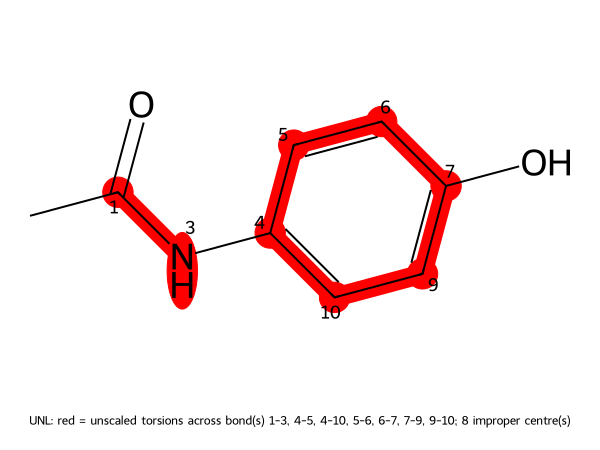
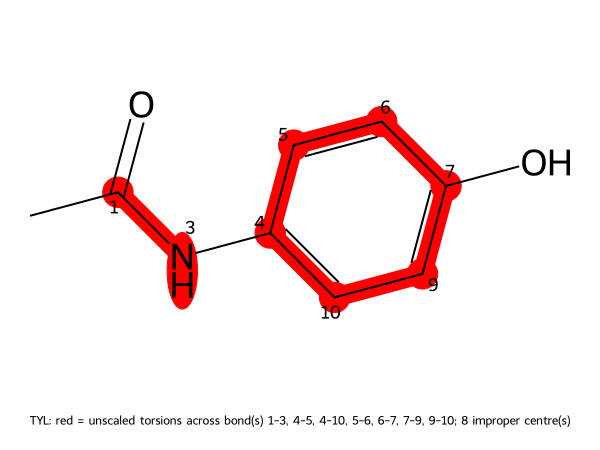
REST2 paracetamol reuses the registered package, and proves its own claims
The page was stale in its OUTPUTS, not just its configuration: it published UNL-unscaled.png and
"SDF for UNL" from a build that never named the residue, so no edit could fix it. Re-run end to
end on e9a89db.

WHAT THE PAGE NOW DOES. The box is built from the package in the shared catalog --
`parameters: CHEMBL112/param_e932f4c4f371`, no path, resolved under $MD_DATA/parameters/ligands --
so the ladder and the cMD box rest on identical numbers and a comparison between the two runs is
a comparison of sampling. It says why a ladder needs its own dataset root: `input/` is shared by
every run on a system and these equilibration stages are longer than the cMD page's, so build-md
refuses to overwrite them.

ONE GPU, WITH MPS. The run had a single card, which md-tools allows only under MPS and otherwise
refuses by name. The page carries the refusal, the daemon recipe, and the two traps: a private
pipe directory (the default one puts every card on the host behind your daemon) and the
108-character Unix socket limit, which makes a long path fail with no useful message.

THE CLAIMS ARE NOW REPRODUCIBLE. The round trips and the torsion table were assertions with no
script; docs/tutorial/REST2/paracetamol_analysis.py measures both, explains why an angle needs a
circular standard deviation, and checks the cis frames the page asserts -- in EVERY state, not
just the two it showed, since a hot state that isomerised the amide would send that geometry
down the ladder at the next exchange.
[…]

Changed region(s): [[0.06, 0.9022, 0.66, 0.9644], [0.69, 0.9022, 0.87, 0.9644]]

diff --git a/docs/tutorial/REST2/paracetamol_analysis.py b/docs/tutorial/REST2/paracetamol_analysis.py
@@ -1,0 +1,106 @@
+#!/usr/bin/env python
+"""What the REST2 ladder bought: walker round trips, and the torsions it did and did not heat.
+
+Run it from the dataset root (the directory holding `build/` and `REST2-run1/`):
+
+    python paracetamol_analysis.py [REST2-run1]
+
+TWO MEASUREMENTS, and they answer different questions.
+
+`round trips` counts, per WALKER, a full journey from the physical state (0) to the hottest
+state (3) and back. It is the honest measure of whether a ladder is doing anything: a high
+exchange acceptance with no round trips means neighbouring states swap busily and nothing ever
+crosses the ladder, which buys no sampling at all.
+
+`circular sd` is measured per STATE, on `solute_state<i>_prod1.nc`, which follows the
+thermodynamic state rather than a walker -- so state 0 is the physical ensemble and needs no
+demultiplexing. A torsion left unscaled must look the SAME in state 3 as in state 0 (that is
+what "unscaled" means); a scaled one should visibly loosen. Ordinary standard deviation is wrong
+for an angle -- 179 deg and -179 deg are 2 deg apart, not 358 -- so this uses the circular
+standard deviation, sqrt(-2 ln R) with R the mean resultant length.
+"""
+from __future__ import annotations
+
+import sys
+from pathlib import Path
+
+import mdtraj as md
+import numpy as np
+
+#: Paracetamol atoms, by package index (see build/parameter/molecule.sdf).
+#: C1-C2(=O1)-N1-C3: the amide. C2-N1-C3-C4: the ring's rotation about the N-C bond.
+AMIDE = (0, 1, 3, 4)
+RING = (1, 3, 4, 5)
+
+
+def circular_sd_degrees(radians: np.ndarray) -> float:
+    resultant = np.abs(np.mean(np.exp(1j * radians)))
+    return float(np.degrees(np.sqrt(-2.0 * np.log(max(resultant, 1e-12)))))
+
+
+def round_trips(exchange_csv: Path) -> dict[int, int]:
+    """Full 0 -> top -> 0 journeys per walker, from the committed exchange rows."""
+    rows = np.genfromtxt(exchange_csv, delimiter=",", names=True)
+    walkers = rows["walker"].astype(int)
+    states = rows["state"].astype(int)
+    top = int(states.max())
+    trips: dict[int, int] = {}
+    for walker in sorted(set(walkers)):
+        visited = states[walkers == walker]
+        # Keep only the ends of the ladder: the journey between them is what a trip is.
+        ends = visited[(visited == 0) | (visited == top)]
+        if ends.size == 0:
+            trips[walker] = 0
+            continue
+        changes = ends[np.insert(np.diff(ends) != 0, 0, True)]
+        # 0, top, 0 is one round trip; count completed returns to 0 after reaching the top.
+        count, seen_top = 0, False
+        for state in changes:
+            if state == top:
+                seen_top = True
+            elif state == 0 and seen_top:
+                count += 1
+                seen_top = False
+        trips[walker] = count
+    return trips
+
+
+def main(argv: list[str]) -> int:
+    run = Path(argv[1] if len(argv) > 1 else "REST2-run1")
+    topology = Path("build") / "built.pdb"
+    if not run.is_dir() or not topology.is_file():
+        print(f"run this from the dataset root: {topology} and {run}/ must exist", file=sys.stderr)
+        return 2
+
+    trips = round_trips(run / "exchange.csv")
+    print(f"round trips (0 -> top -> 0), per walker: "
+          f"{', '.join(str(trips[w]) for w in sorted(trips))}")
+
+    solute = md.load(str(Path("build") / "built.solute.pdb"))
+    states = sorted(run.glob("solute_state*_prod1.nc"))
+    print(f"\n{'torsion':<26}{'scaled?':<10}" + "".join(f"state {n:<10}" for n, _ in
+                                                        enumerate(states)))
+    for label, atoms, scaled in (("amide omega 0-1-3-4", AMIDE, "no"),
+                                 ("ring about N-C 1-3-4-5", RING, "yes")):
+        line = f"{label:<26}{scaled:<10}"
+        for path in states:
+            traj = md.load(str(path), top=solute.topology)
+            angles = md.compute_dihedrals(traj, [list(atoms)])[:, 0]
+            line += f"{circular_sd_degrees(angles):>8.1f} deg  "
+        print(line)
+        if scaled == "no":
+            # An unscaled amide must not isomerise in ANY state: a cis frame in the hot state
+            # would be a geometry state 0 never visits, which is what leaving it unscaled prevents.
+            for n, path in enumerate(states):
+                traj = md.load(str(path), top=solute.topology)
+                angles = md.compute_dihedrals(traj, [list(atoms)])[:, 0]
+                cis = int(np.sum(np.abs(np.degrees(angles)) < 90.0))
+                print(f"    state {n}: {cis} cis frame(s) of {len(angles)} "
+                      f"(|omega| < 90 deg)")
+    print(f"\n{len(md.load(str(states[0]), top=solute.topology))} frames per state, "
+          f"{len(states)} states")
+    return 0
+
+
+if __name__ == "__main__":
+    raise SystemExit(main(sys.argv))

diff --git a/docs/tutorial/REST2/paracetamol.md b/docs/tutorial/REST2/paracetamol.md
@@ -1,16 +1,18 @@
 # REST2: paracetamol in explicit water, 10 ns per state
 
-!!! note "Requires md-tools 0.5.4 or later"
-    Earlier releases built REST2 states differently; their tutorials are
-    [archived](../archived/README.md).
+!!! note "Requires the md-tools release after 0.5.4"
+    This page builds its box from a **registered parameter package** rather than parameterising
+    the molecule again, which needs the release after 0.5.4. It was run with md-tools at commit
+    `e9a89db`, on ONE NVIDIA RTX A5000 shared by the four replicas through CUDA MPS.
 
-A four-state REST2 ladder over paracetamol, from a SMILES string to 10 ns of production **per state**,
-with md-tools **0.5.4**. Every command below was run exactly as written, and every number is copied
-from the files that run produced (md-tools at commit `e1a84e1`; four NVIDIA RTX 3080 GPUs, CUDA,
-mixed precision).
+A four-state REST2 ladder over paracetamol, 10 ns of production **per state**. Every command below
+was run exactly as written, and every number is copied from the files that run produced.
 
-The whole thing took about 12 minutes: 1.5 min to build, 1 s to scale, 11 min to equilibrate and run
-the ladder.
+The molecule is **not parameterised here**: this page reuses the package
+[cMD: paracetamol](../cMD/paracetamol.md) makes, so read that page first if you want to know where
+ligand parameters come from. The charge calculation happens once, there.
+
+The ladder took 19.5 min on one shared GPU, plus a few seconds to build and scale.
 
 !!! info "What changed since 0.5.3"
     In 0.5.3 the ladder scaled its states itself, at run time, and `run.sh` refused this molecule.
@@ -31,45 +33,59 @@ improper. See [REST2](../../openmm_methods/REST2/README.md).
 
 ## 1. The dataset root
 
+A REST2 ladder gets its **own** dataset root, beside the cMD one rather than inside it: `input/` is
+shared by every run on a system, and this ladder's equilibration stages are longer than the cMD
+page's, so `build-md` refuses to overwrite them. The parameters are shared; the box is not.
+
 ```bash
-mkdir -p PARA/build
-cd PARA/build
+mkdir -p REST2-PARA/build
+cd REST2-PARA/build
+cp "$MD_DATA/parameters/ligands/CHEMBL112/param_e932f4c4f371/TYL.sdf" paracetamol.sdf
 ```
 
-`paracetamol.smi`:
-
-```text
-CC(=O)Nc1ccc(O)cc1 paracetamol
-```
+## 2. Build the system, from the registered package
 
 `build-top.config`:
 
 ```yaml
 solute:
   kind: ligand
+  residue_name: TYL
+  parameters: CHEMBL112/param_e932f4c4f371
 ```
 
-## 2. Build the system
-
 ```bash
-md-openmm build-top -i paracetamol.smi \
+md-openmm build-top -i paracetamol.sdf \
     -os built.xml -op built.pdb -log built.log --config build-top.config
 ```
 
 ```text
+Resolved configuration
+  solute.parameters           CHEMBL112/param_e932f4c4f371   (set)
+  residue name                TYL   (stated)
+Preparation
+  parameters   : CHEMBL112/param_e932f4c4f371 (reused (stated reference))
+  solvation    : 592 waters, ions {'NA': 2, 'CL': 2}, box dodecahedron (19.1 nm^3)
 Counts
   atoms                       1800
   solute atoms                20
-  waters                      592
-  ions                        {'NA': 2, 'CL': 2}
 ```
 
-It writes `built.xml`, `built.pdb` and `built.sdf`. **Keep `built.sdf`**: it holds the bond orders,
-which is how the next step knows which bonds are aromatic and which C–N is an amide.
+`parameters` names the package **by identity**, with no path: it is resolved in the shared catalog
+under `$MD_DATA/parameters/ligands`, where `md-openmm data-register --ligand-package` put it. A
+package that is not registered is named by its path instead — see
+[cMD: paracetamol](../cMD/paracetamol.md).
+
+`reused (stated reference)` means no charge was generated here. This box and the cMD page's box
+rest on the same numbers, which is the point: a comparison between the two runs is a comparison of
+sampling, not of parameters.
+
+It also writes `TYL.sdf` beside the System. **Keep it**: it holds the bond orders, which is how the
+next step knows which bonds are aromatic and which C–N is an amide.
 
 ## 3. Build the scaled states
 
-This is the new step. `scaler.config`, beside the built System:
+`scaler.config`, beside the built System:
 
 ```yaml
 method: REST2
@@ -91,7 +107,7 @@ build/REST2/
 ├── system_state0.xml  system_state1.xml  system_state2.xml  system_state3.xml
 ├── scaler.yaml          what these files are and how they were made (sha256 of each)
 ├── scaler.log           the same, for a person
-└── UNL-unscaled.png     what stays unscaled, drawn
+└── TYL-unscaled.png     what stays unscaled, drawn
 ```
 
 From `scaler.log`:
@@ -101,10 +117,10 @@ From `scaler.log`:
   solute                      20 atom(s)
   unscaled torsions           amide omega 1 bond(s), aromatic ring 6 bond(s), double bond 0 bond(s), impropers 24 term(s)
                               56 torsion term(s) unscaled, 18 scaled
-  SDF for UNL                 built.sdf
+  SDF for TYL                 TYL.sdf
 ```
 
-and `UNL-unscaled.png` — every red bond keeps all its torsions unscaled in every state, and every red
+and `TYL-unscaled.png` — every red bond keeps all its torsions unscaled in every state, and every red
 atom is the centre of an unscaled improper; the numbers are the atom indices `scaler.yaml` uses:
 
 ![paracetamol: unscaled torsions in red](images/paracetamol-unscaled.png)
@@ -144,7 +160,7 @@ reporting:
 `build/REST2/`, and `build-md` refuses if they disagree with it.
 
 ```bash
-cd ..                                            # PARA/
+cd ..                                            # REST2-PARA/
 md-openmm build-md -odir ./REST2-run1 --config REST2.config
 ```
 
@@ -159,13 +175,41 @@ The group file it writes names the saved states, one per line:
 
 ## 5. Run it
 
+Four replicas need four workers. Give each one its own GPU if you have them:
+
 ```bash
 cd REST2-run1
-CUDA_VISIBLE_DEVICES=1,2,3,4 ./run.sh
+CUDA_DEVICE_ORDER=PCI_BUS_ID CUDA_VISIBLE_DEVICES=1,2,3,4 ./run.sh
 ```
 
+This run had **one** card, so the four workers shared it — which md-tools allows only under
+NVIDIA MPS, and refuses otherwise:
+
+```text
+md-run: REST2: this launch shares device 0 between 4 workers. NVIDIA MPS is not-a-client for this
+process ... Without MPS, workers on one GPU are time-sliced: each waits for the others' kernels,
+and a synchronous ladder runs at the pace of that shared GPU.
+```
+
+md-tools neither starts nor stops the daemon — that is the operator's decision, because an MPS
+daemon outlives the run. Start one that belongs to you, run, and stop it:
+
+```bash
+export CUDA_MPS_PIPE_DIRECTORY="$HOME/.cache/mps/pipe"    # keep this path SHORT: it holds a Unix
+export CUDA_MPS_LOG_DIRECTORY="$HOME/.cache/mps/log"      # socket, and those cap at 108 characters
+mkdir -p "$CUDA_MPS_PIPE_DIRECTORY" "$CUDA_MPS_LOG_DIRECTORY"
+CUDA_VISIBLE_DEVICES=0 nvidia-cuda-mps-control -d
+
+CUDA_DEVICE_ORDER=PCI_BUS_ID CUDA_VISIBLE_DEVICES=0 ./run.sh
+
+echo quit | nvidia-cuda-mps-control
+```
+
+A private pipe directory matters: with the default one the daemon serves **every** card on the
+host, so a shared machine's other GPUs end up behind your daemon.
+
 `run.sh` minimises and equilibrates once on the unscaled system (`min`, `eq_1`, `eq_2`, `eq_3`),
-then launches the ladder, one MPI rank per state and one GPU per rank:
+then launches the ladder, one MPI rank per state:
 
 ```text
 mpirun -n 4 md-openmm md-run -ng 4 -i ../input/REST2.in -p "${TOPOLOGY}" \
@@ -175,11 +219,11 @@ mpirun -n 4 md-openmm md-run -ng 4 -i ../input/REST2.in -p "${TOPOLOGY}" \
 
 !!! tip "Which GPU is which"
     CUDA numbers devices fastest first, `nvidia-smi` by PCI bus, so on a machine with mixed cards
-    `CUDA_VISIBLE_DEVICES=1,2,3,4` need not be the GPUs `nvidia-smi` lists as 1–4 -- on the machine
-    this ran on, it was not. Add `CUDA_DEVICE_ORDER=PCI_BUS_ID` in front of the command to make the
-    two numberings agree.
+    `CUDA_VISIBLE_DEVICES=1,2,3,4` need not be the GPUs `nvidia-smi` lists as 1–4. Put
+    `CUDA_DEVICE_ORDER=PCI_BUS_ID` in front to make the two numberings agree.
 
-It finished in 11 min and ended with `run.sh: all stages reported completion`.
+It finished in 19.5 min and ended with `run.sh: all stages reported completion`. Stages that had
+already completed were skipped, not repeated — only the ladder ran.
 
 ## 6. Results
 
@@ -191,37 +235,67 @@ It finished in 11 min and ended with `run.sh: all stages reported completion`.
 # solute frames         : 5000 (every 1000 steps)
 # production per replica: 10000.0 ps
 # NEIGHBOURING-PAIR acceptance:
-#   state 0 <-> state 1   546/2500   0.218
-#   state 1 <-> state 2   540/2500   0.216
-#   state 2 <-> state 3   583/2500   0.233
-#   overall               1669/7500   0.223
+#   basis: cumulative over every committed exchange row in the authoritative NetCDF, exchanges 0-4999
+#   state 0 <-> state 1   566/2500   0.226
+#   state 1 <-> state 2   525/2500   0.210
+#   state 2 <-> state 3   580/2500   0.232
+#   overall               1671/7500   0.223
 # REST2:
 #   tau ladder            0, 0.166667, 0.333333, 0.5   (4 state(s), one temperature 300.0 K, NVT)
+#   scaling               solute-solute (1-tau)^2, solute-environment 1-tau
 #   left unscaled         bonds unscaled, angles unscaled, torsions: ordinary amide omega, aromatic ring bonds, other double bonds, impropers
 #   solute region         20 atom(s), 7 unscaled central bond(s), impropers unscaled
+#   velocities on swap    never rescaled (one beta across the ladder)
 # TIMINGS:
-#   throughput            1397.83 ns/day per replica, 5591.32 ns/day aggregate over 4 state(s)
+#   elapsed               1170.8 s
+#   throughput            737.95 ns/day per replica, 2951.81 ns/day aggregate over 4 state(s)
 run_status: completed
 ```
 
-**The walkers really travel.** Counting, in `exchange.csv`, every full trip of a walker from state 0
-to state 3 and back: 54, 51, 46 and 56 round trips for the four walkers.
+An acceptance near 0.22 on every neighbouring pair is a usable ladder: high enough that
+configurations move, low enough that the states are telling each other something.
+
+Both measurements below come from [`paracetamol_analysis.py`](paracetamol_analysis.py), run from
+the dataset root.
+
+**The walkers really travel.** An acceptance ratio on its own does not show that: neighbours can
+swap busily while nothing ever crosses the ladder. Counting, per walker, full journeys from the
+physical state to the hottest and back:
+
+```text
+round trips (0 -> top -> 0), per walker: 51, 50, 58, 59
+```
 
 **The unscaled amide stays planar, and the scaled rotation loosens.** Measured on
-`solute_state<i>_prod1.nc`, 5000 frames each:
+`solute_state<i>_prod1.nc`, 5000 frames each. An angle needs a circular standard deviation —
+179° and −179° are 2° apart, not 358°:
 
-| torsion | scaled? | state 0 (τ = 0) | state 3 (τ = 0.5) |
-|---|---|---|---|
-| amide ω, atoms 0-1-3-4 | no | trans, circular sd 11.9°, no cis frame | trans, circular sd 12.0°, no cis frame |
-| ring about N–C, atoms 1-3-4-5 | yes | circular sd 110° | circular sd 160° |
+| torsion | scaled? | state 0 (τ = 0) | state 1 | state 2 | state 3 (τ = 0.5) |
+|---|---|---|---|---|---|
+| amide ω, atoms 0-1-3-4 | no | 12.2° | 12.0° | 11.9° | 11.8° |
+| ring about N–C, atoms 1-3-4-5 | yes | 126.7° | 138.6° | 160.2° | 161.1° |
 
-The amide looks the same in the hottest state as in the physical one, which is the point of leaving
-it unscaled; the ring rotation, which REST2 is meant to help, is visibly freer at τ = 0.5.
+and **not one cis frame in any state** — 0 of 5000 with \|ω\| < 90°, state 0 to state 3. The amide
+looks the same in the hottest state as in the physical one, which is the point of leaving it
+unscaled: a hot state that isomerised it would sample a geometry state 0 never visits, and every
+exchange would carry that geometry down the ladder. The ring rotation, which REST2 is meant to
+help, is visibly freer at τ = 0.5.
 
 The files follow the thermodynamic **state**: `solute_state0_prod1.nc` is the physical ensemble, and
 no demultiplexing is needed before analysing it. `solute.yaml` records that the ladder integrated
 the saved states (`detection_route: saved-state`, and the sha256 of each).
 
+!!! note "One shared GPU is slower, and samples the same"
+    On four RTX 3080s this ladder ran at about 1400 ns/day per replica; on one shared A5000 it
+    runs at 738. The physics is identical — same Systems, same ladder, same acceptance near 0.22,
+    the same round-trip counts to within the scatter of a different random trajectory. A shared
+    card costs wall time, not correctness.
+
 ## Next
 
-* the ordinary MD version of this molecule: [cMD: paracetamol](../cMD/paracetamol.md)
+* where the parameters came from: [cMD: paracetamol](../cMD/paracetamol.md)
+* the same parameters in a protein pocket:
+  [cMD: a bromodomain with paracetamol](../cMD/bromodomain-paracetamol.md)
+* a ladder over a peptide: [REST2: chignolin](chignolin.md)
+* register the finished directory as a dataset:
+  [Registering a finished run](../../data_register/README.md)
